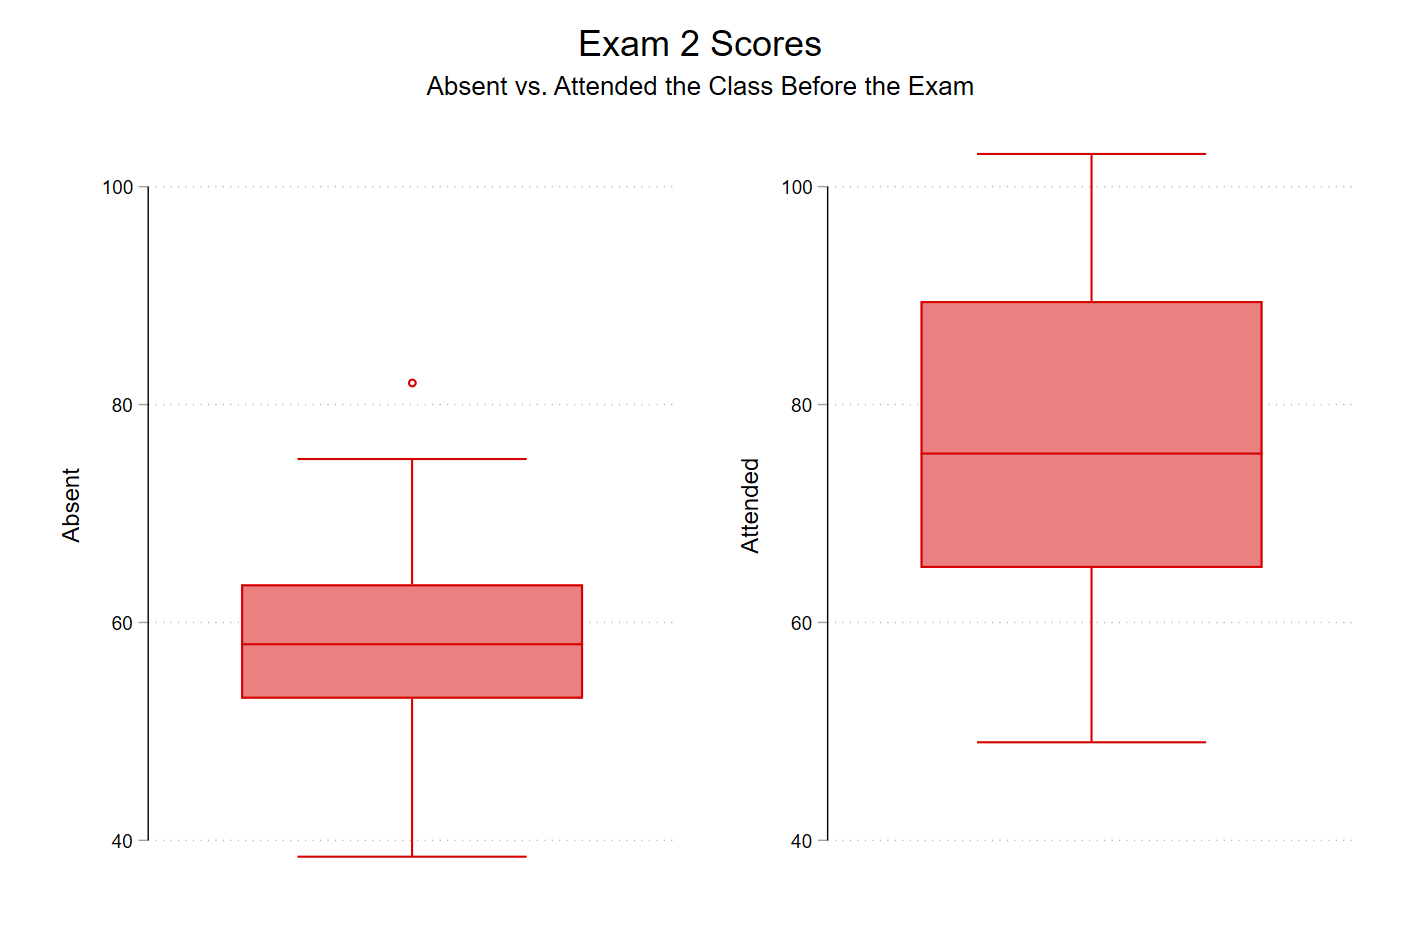
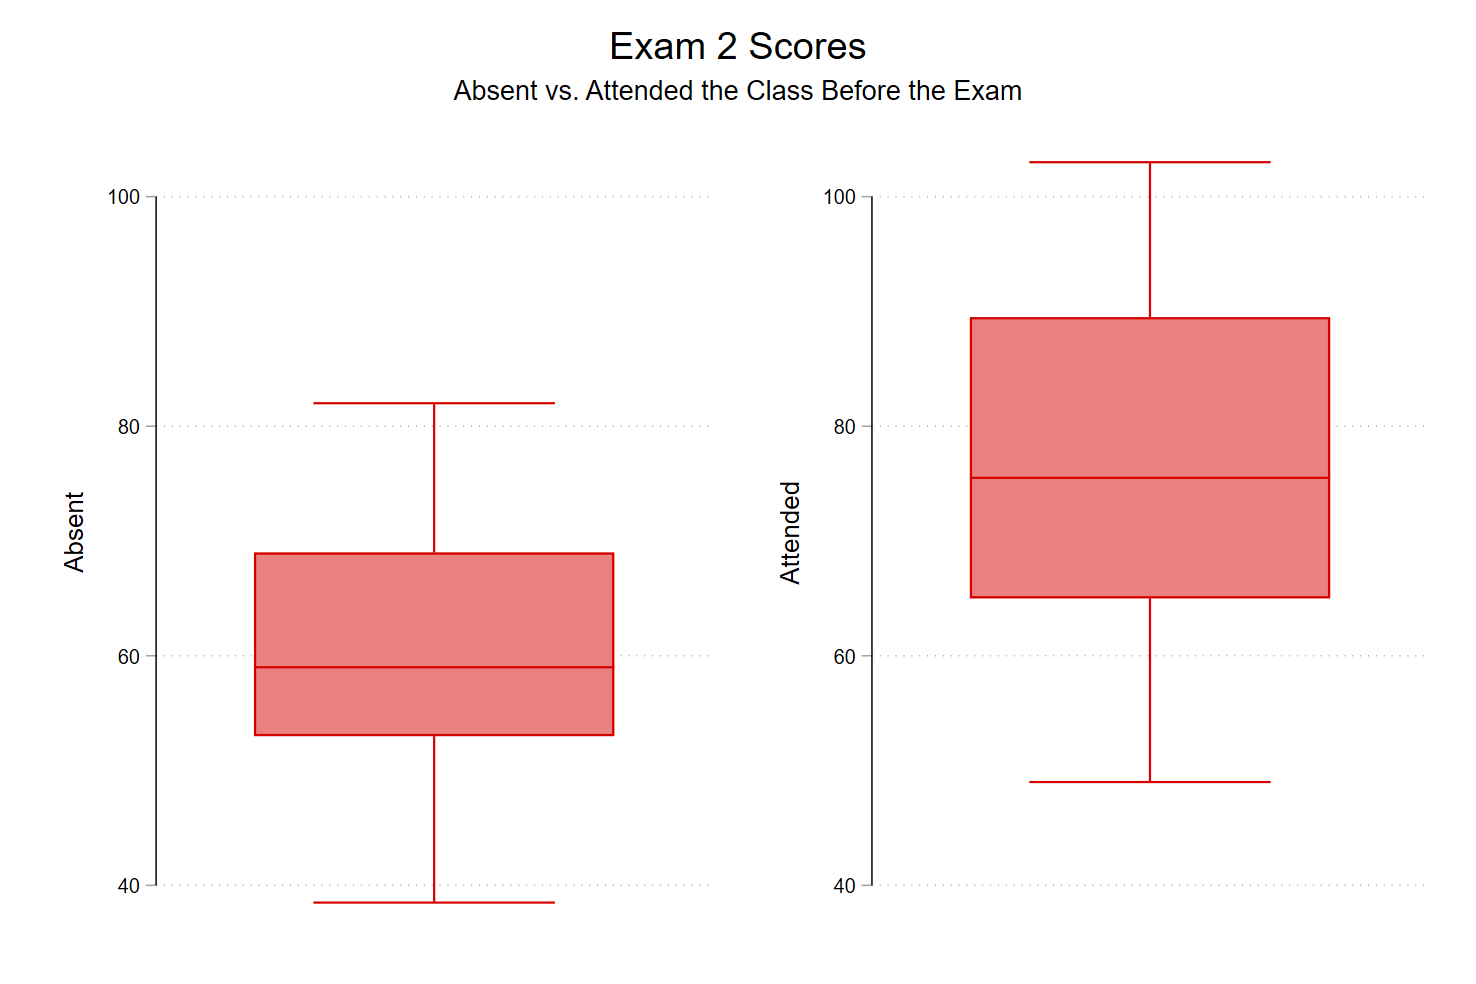
update after a few more makeups

diff --git a/content/post/post18-on-posting-my-slides/index.md b/content/post/post18-on-posting-my-slides/index.md
@@ -21,15 +21,13 @@ This semester, for the first time since I was in grad school, I decided to post 
 
 We're now about two-thirds of the way through the semester, and honestly I'm not sure how I feel. Attendance is down a bit, as I expected. But after the first exam, I noticed that the distribution of scores was about what it usually is: mean of about 78, a fair number of A's, and a fair number of F's. For context, I've taught this class (or some version of it) five times before this semester (both here and at USC).
 
-I've just graded the second exam, and it's got me somewhat concerned. In the past, classes have usually performed about the same or a little better on subsequent exams. This semester, the class average dropped 8 points. But at the same time, there were more A's on this exam. In fact, that was the modal score this time:
+I've just graded the second exam, and it's got me somewhat concerned. In the past, classes have usually performed about the same or a little better on subsequent exams. This semester, the class average dropped 8 points:
 
 ![hist](histograms.png)
 
-Just eyeballing those histograms, it looks like maybe the C and D bars flipped. And maybe a few students improved their score from a B last time to an A this time.
-
 I don't take attendance, but at the beginning of the semester I tried to make it **very clear** to my students that although I was posting the slides, they'd still need to come to class and participate in order to get the most out of the class. I also put a disclaimer at the top of the [webpage that lists all my lectures](https://jnix.netlify.app/courses/crcj2030/lectures/), warning that the slides are *merely skeletons* and that *in class, we'll discuss the material in much greater detail.* 
 
-But like I said, attendance does seem to be down a bit. So last week, I took attendance on the day before the exam. Looking out at the room, it was the usual crowd, so while this wasn't a perfect measure of attendance, I'm confident that attendance on that day was highly correlated with regular attendance. Unsurprisingly, as a group, those who attended that particular day did **much better** on Exam 2 than those who didn't. On average, those who attended scored almost 17 points higher. And whereas the highest score among the absent group was an 82, nearly 1/3 of the attended group earned an 82 or higher. 
+But like I said, attendance does seem to be down a bit. So last week, I took attendance on the day before the exam. Looking out at the room, it was the usual crowd, so while this wasn't a perfect measure of attendance, I'm confident that attendance on that day was highly correlated with regular attendance. Unsurprisingly, as a group, those who attended that particular day did **much better** on Exam 2 than those who didn't. On average, those who attended scored 17 points higher. And whereas the highest score among the absent group was an 82, nearly 1/3 of the attended group earned an 82 or higher. 
 
 ![box](boxplots.png)
 
